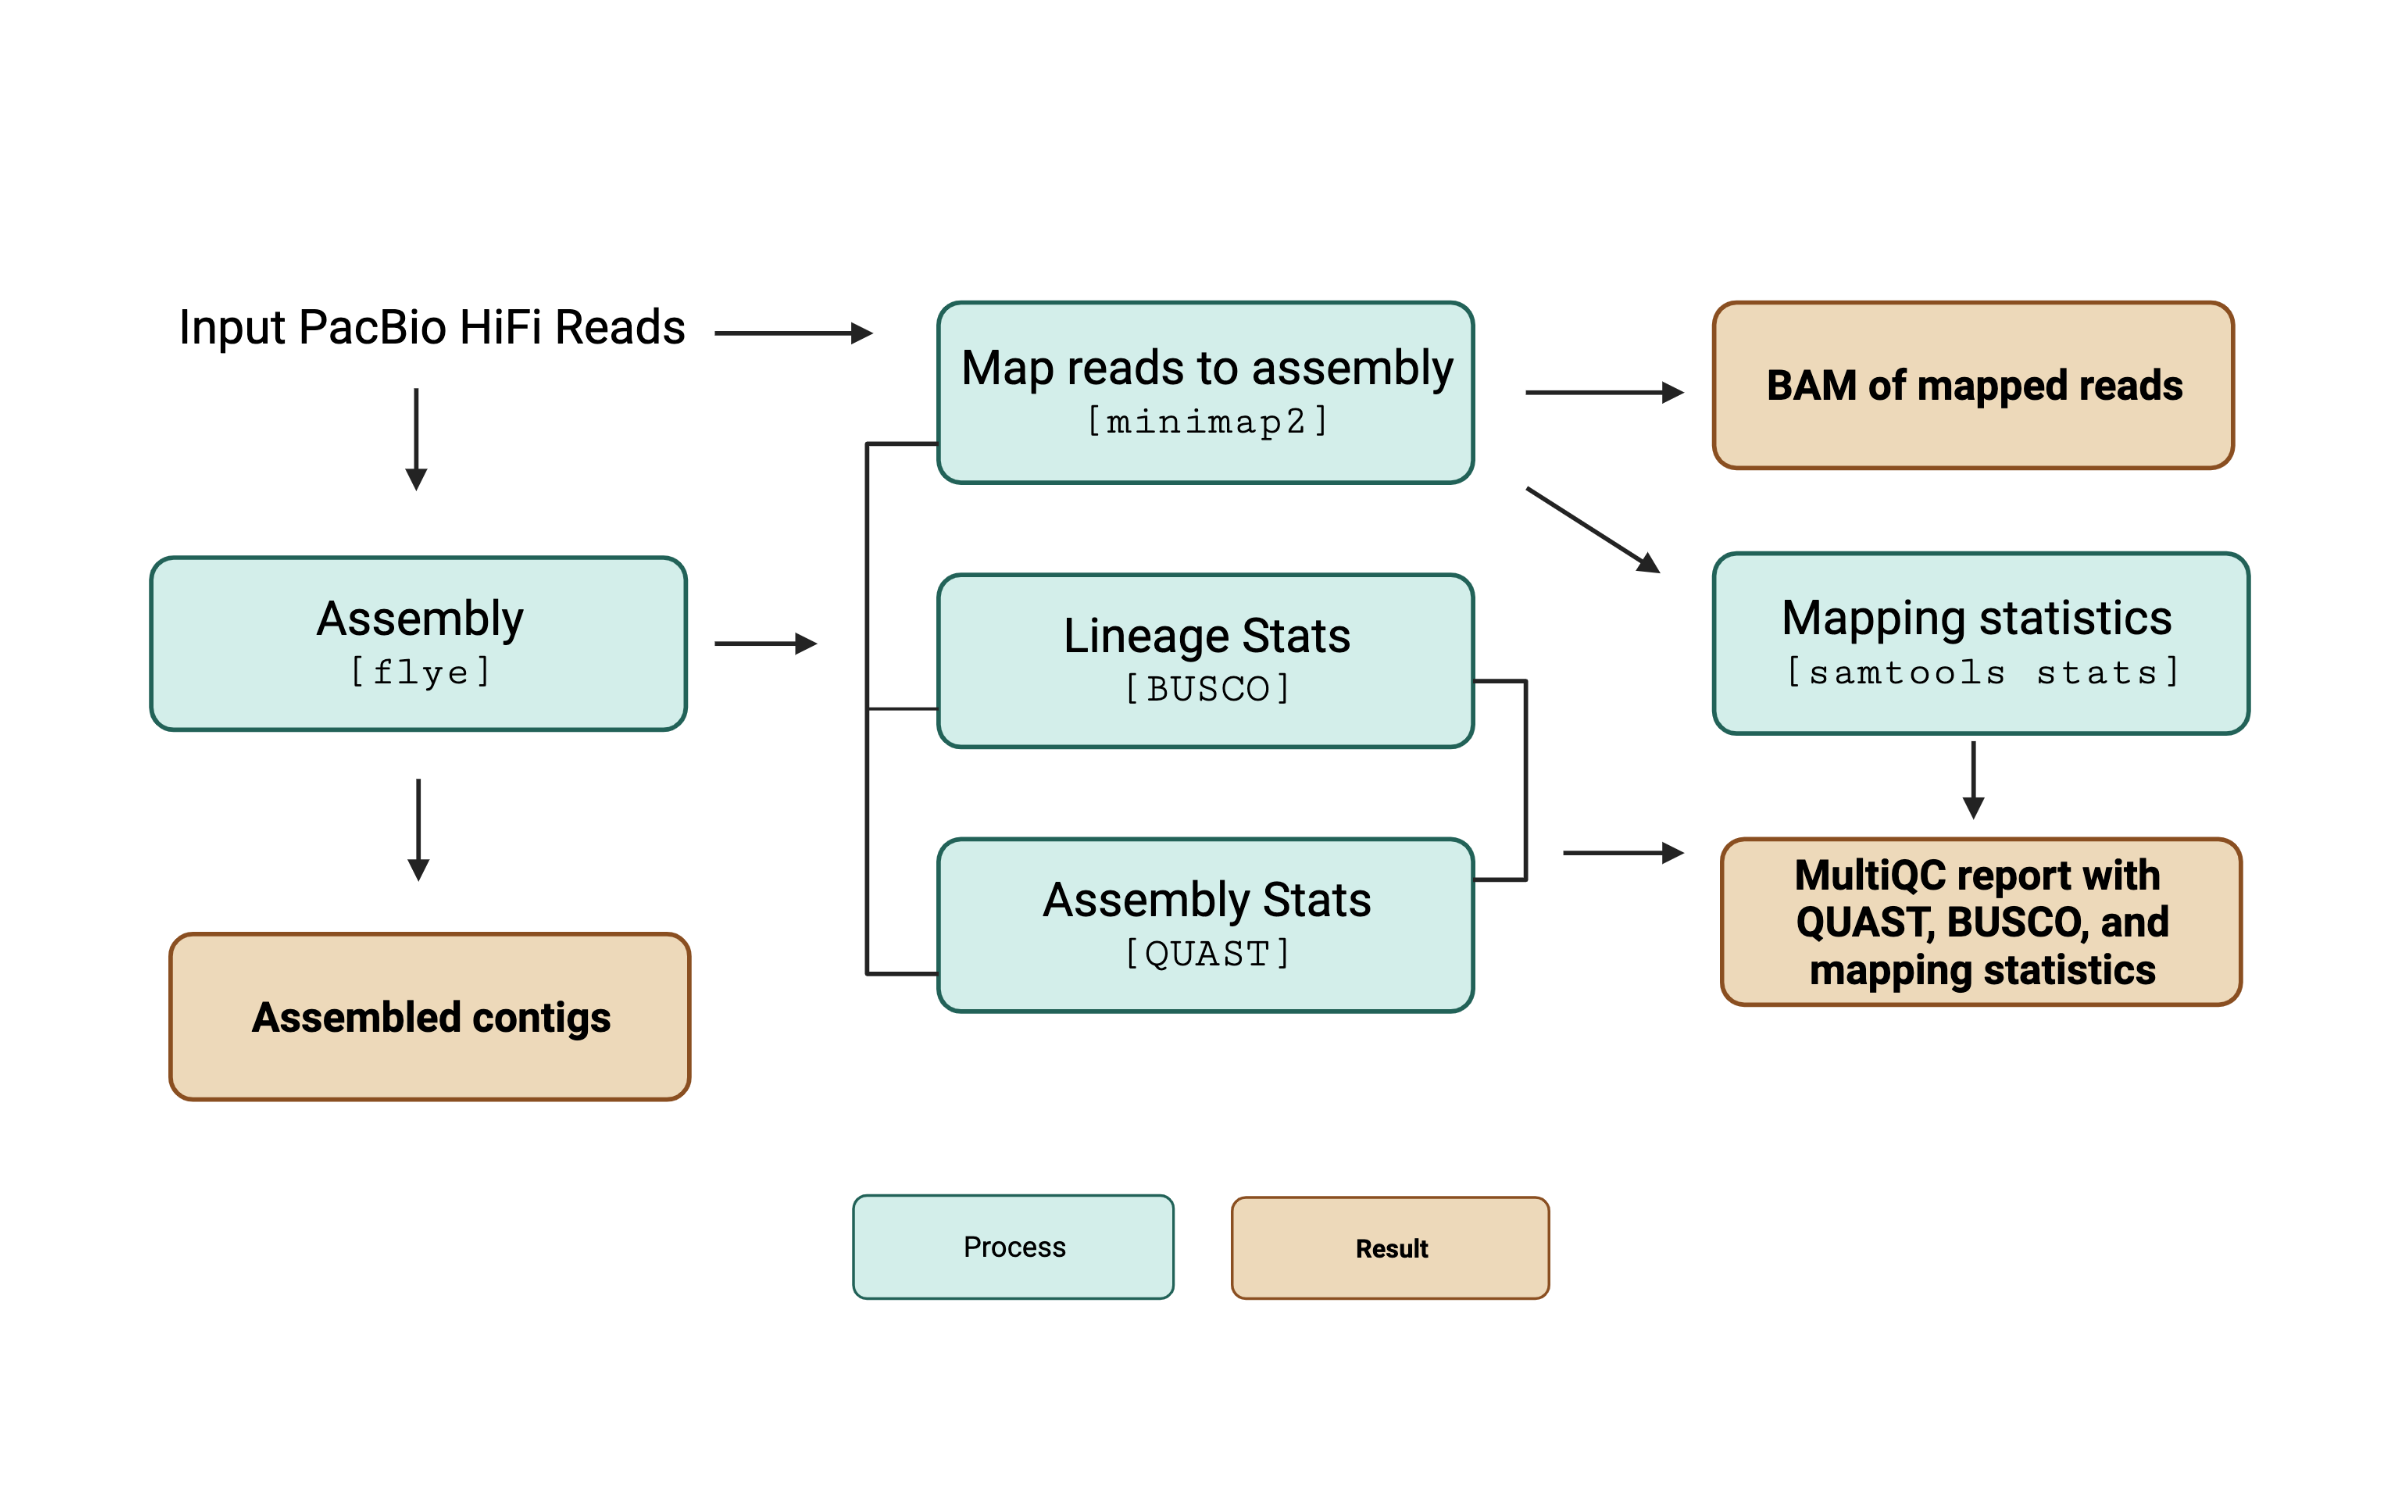
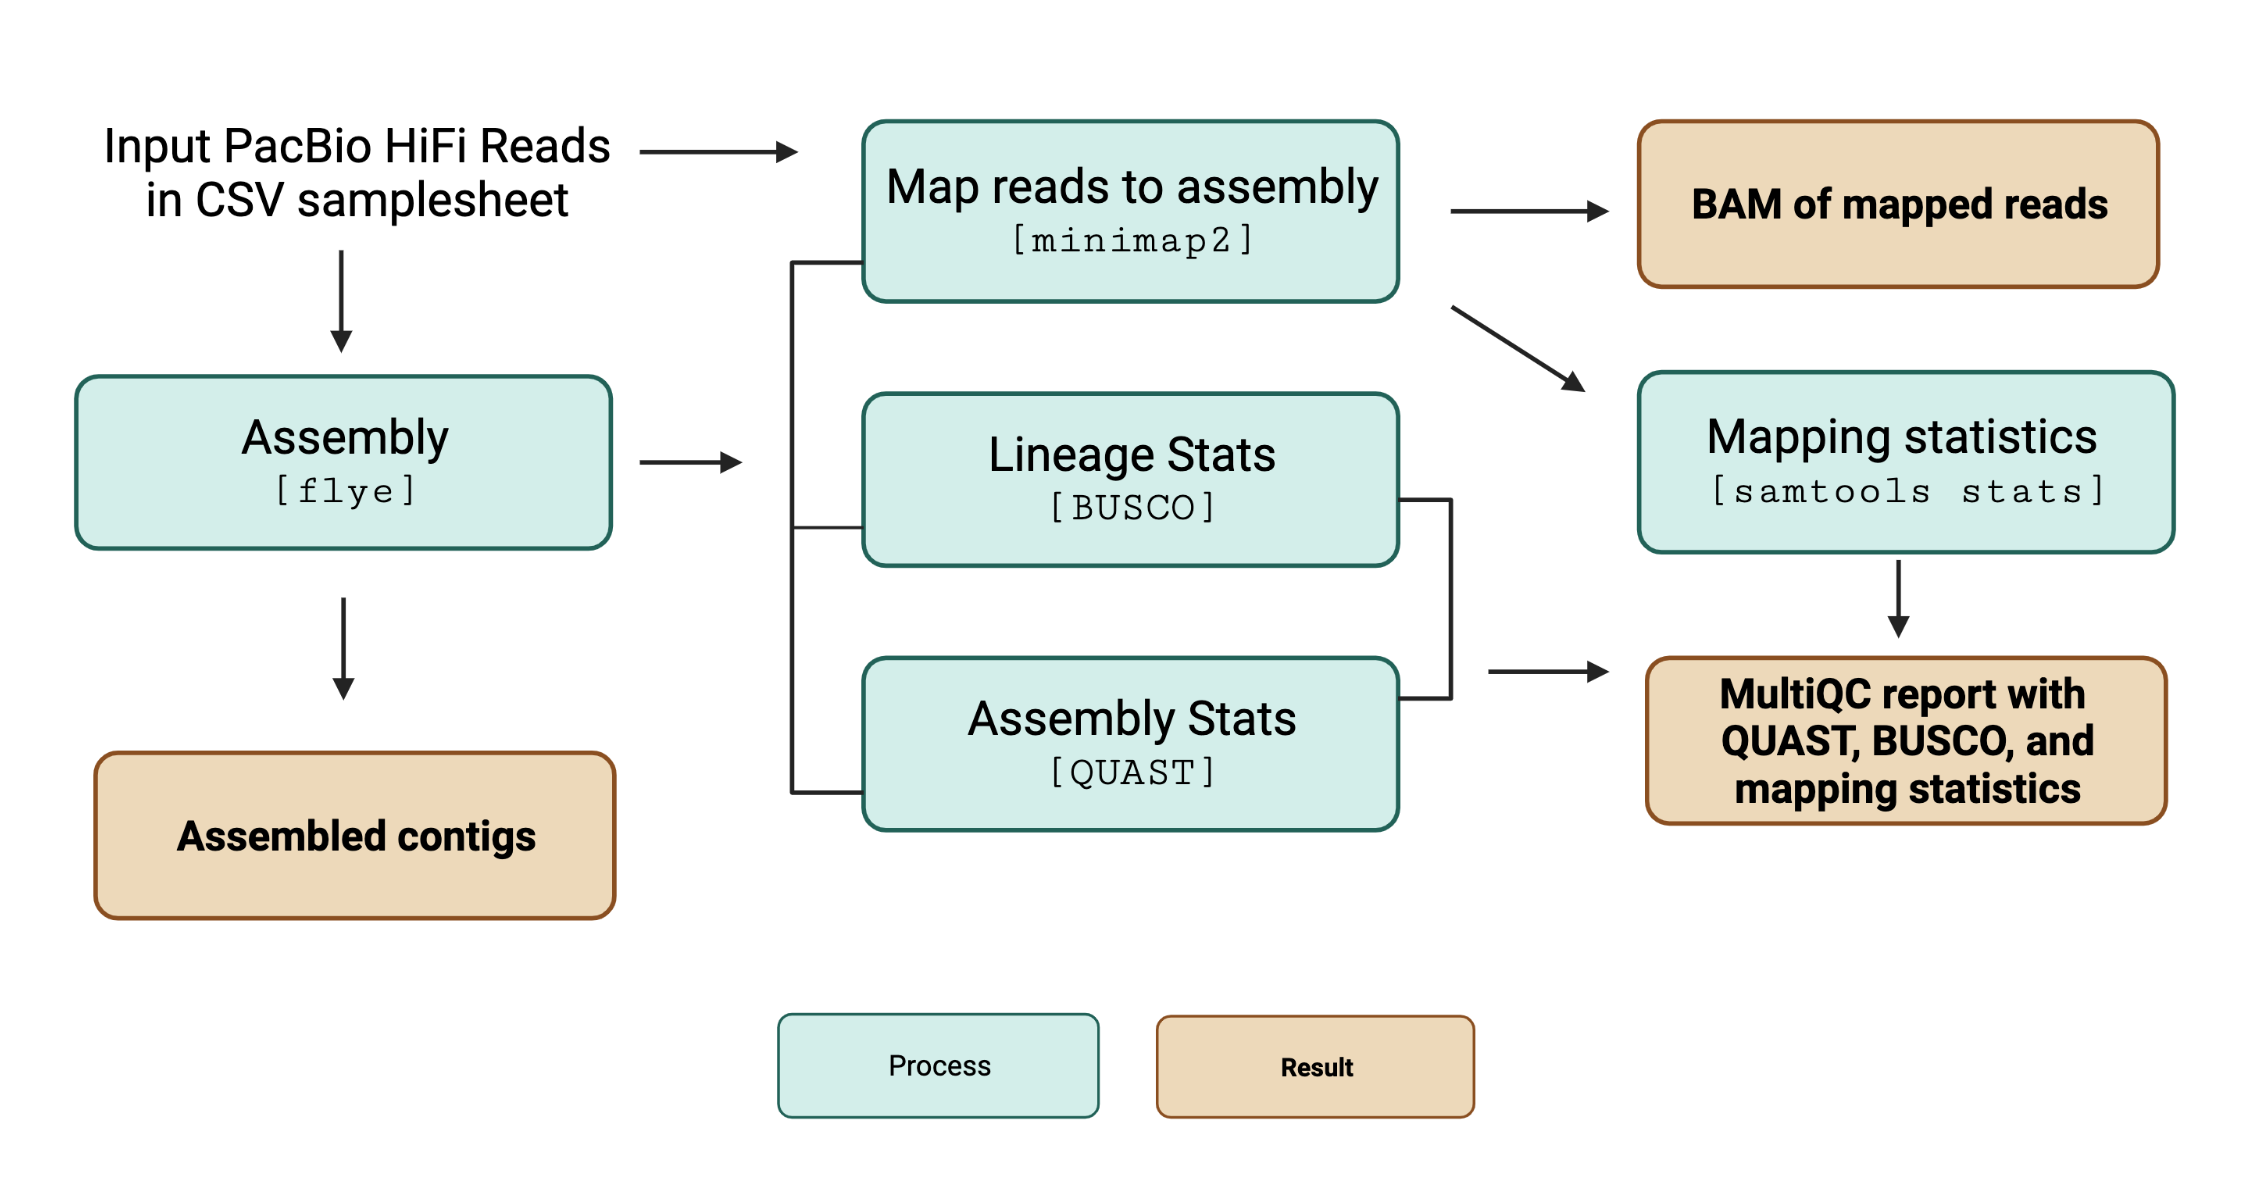
update with zenodo doi, reformat fig

diff --git a/README.md b/README.md
@@ -42,10 +42,11 @@ This workflow only supports PacBio Hifi reads in `.fastq.` format for producing 
    ```
 
 ## Citations
+If you use Arcadia-Science/hifi2genome for your analysis, please cite it using the following DOI: [10.5281/zenodo.7706592](https://doi.org/10.5281/zenodo.7706592)
 
 The `nf-core` template was used as a guideline for putting this workflow together. You can cite the `nf-core` publication as follows:
 
 > **The nf-core framework for community-curated bioinformatics pipelines.**
 > Ewels PA, Peltzer A, Fillinger S, Patel H, Alneberg J, Wilm A, Garcia MU, Di Tommaso P, Nahnsen S. The nf-core framework for community-curated bioinformatics pipelines. (2020). [doi: 10.1038/s41587-020-0439-x](https://doi.org/10.1038/s41587-020-0439-x)
 
-> An extensive list of references for the tools used by the pipeline can be found in the [`CITATIONS.md`](CITATIONS.md) file.
+ An extensive list of references for the tools used by the pipeline can be found in the [`CITATIONS.md`](CITATIONS.md) file.
